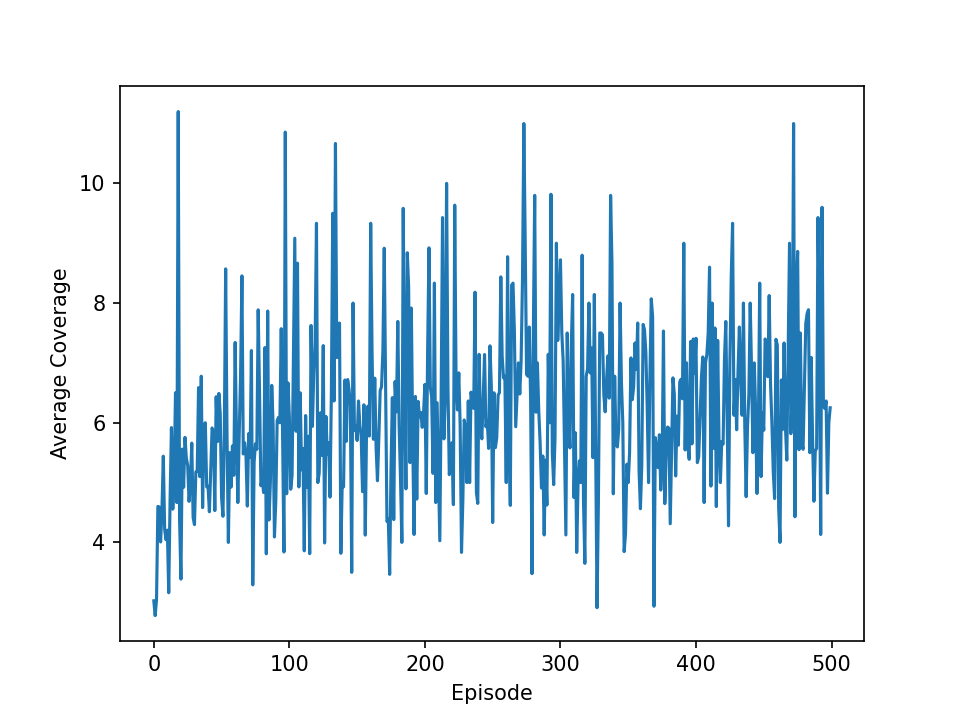
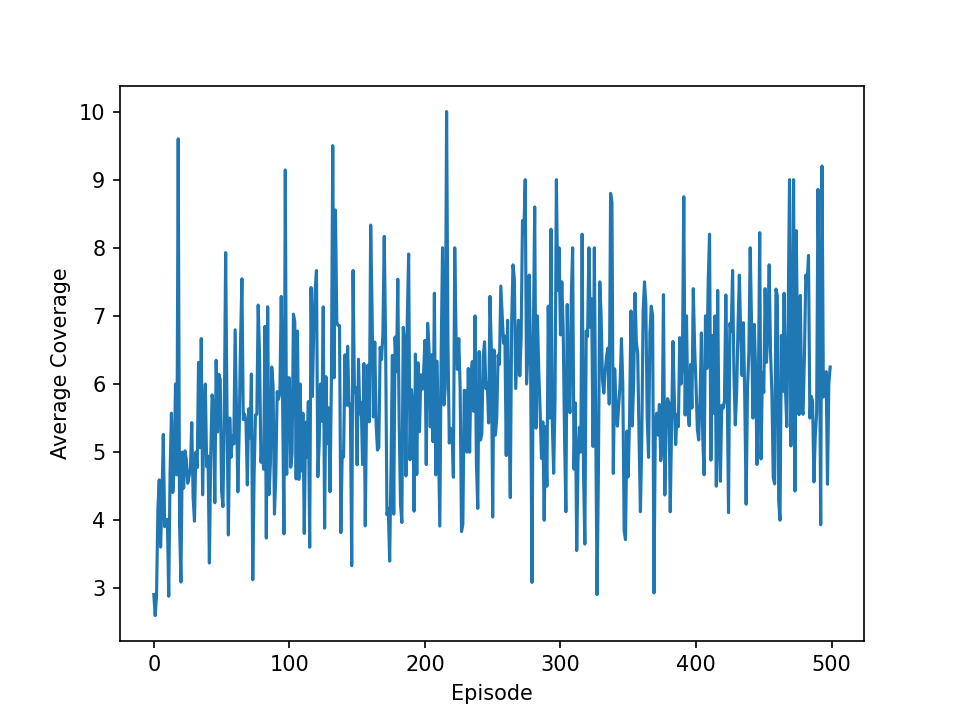
typoes

diff --git a/field_coverage_env.py b/field_coverage_env.py
@@ -64,7 +64,8 @@ class FieldCoverageEnv(gym.Env):
         foi = self.foi.astype(int)
         for i in self._drones:
             coverage += np.sum(masks[i] & foi)
-
+        coverage = coverage - self._compute_overlap(masks)
+        
         if potential:
             reward, global_reward, success = self._reward_individual()
             done = success or self._steps == self.max_steps
